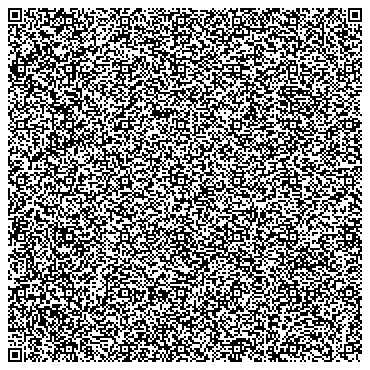
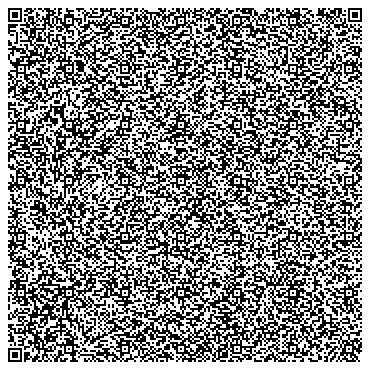
release new bundles

diff --git a/docs/demo-shader-julia/index.html b/docs/demo-shader-julia/index.html
@@ -1,1 +1,1 @@
-<style>canvas{left:0;top:0;position:fixed}div{position:fixed;color:#fff;font-family:monospace;background:rgba(0,0,0,.5)}div#h{padding:16px;font-size:32px}div#m,div#p{font-size:80px;padding:40px}*{touch-action:none}</style><canvas id="c"></canvas><div id="h"></div><div id="p">+</div><div id="m">-</div><script>var o=()=>{requestAnimationFrame(I)},t=(t,e)=>c.getUniformLocation(t,e),e=(t,e,r)=>(r=c.createShader(r),c.shaderSource(r,e),c.compileShader(r),c.attachShader(t,r),r),r=t=>t.toFixed(5),n=t=>{var t=t.touches.item(0),e=a.getBoundingClientRect(),r=t.pageX;return[r,t=t.pageY,f+s*(2*(r-e.left)/e.width-1)*e.width/e.height,h+s*(2*(e.height-t)/e.height-1)]},a=((i=(t,e,r)=>{(t=document.getElementById(t)).style.left=window.innerWidth-e,t.ontouchstart=()=>{s*=r,o()}})("p",136,.9),i("m",272,1.1),document.getElementById("c")),l=document.getElementById("h"),c=a.getContext("webgl"),f=0,h=0,s=2,d=0,m=0,g=0,u=0,v=0,b=0,p=0,w=0,A=0,x=!1,i=c.createBuffer(),y=c.ARRAY_BUFFER;c.bindBuffer(y,i),c.bufferData(y,new Float32Array([-1,-1,1,-1,-1,1,1,1]),c.STATIC_DRAW);e(i=c.createProgram(),"attribute vec2 p;void main(){gl_Position=vec4(p,0,1);}",c.VERTEX_SHADER),e(i,"precision highp float;uniform vec2 cs,cp;uniform float s;uniform vec2 c;uniform float ds;vec2 cm(vec2 a,vec2 b){return vec2(a.x*b.x-a.y*b.y,a.x*b.y+a.y*b.x);} const int MI=254;const float MD=1e8;float f(float n,vec3 hsl){float k=mod(n+hsl.x*12.,12.);float a=hsl.y*min(hsl.z,1.-hsl.z);return hsl.z-a*max(min(k-3.,min(9.-k, 1.)),-1.);}vec3 hsl2rgb(vec3 hsl){return vec3(f(0.,hsl),f(8.,hsl),f(4.,hsl));}vec3 pc(vec2 t,vec2 c){float md=.0;vec2 z=t;float d;for(int i=0;i<MI;i++){z=cm(z,z)+c;d=length(z);if(md<d){md=d;}if(md>MD){float l=sqrt((float(i)-log2(log(d)/log(sqrt(MD)))+1.)/log2(float(MI*MI)));return hsl2rgb(vec3(1.-l/5.,1.-l,.1+l/3.));}}float l=pow(d/md,16.);return hsl2rgb(vec3(.8-l/3.,.5+l/2.,l/4.+.25));}void main(){vec2 t=(gl_FragCoord.xy/cs.xy)*2.-vec2(1.,1.);t.x=t.x*cs.x/cs.y;t=t*s+cp;float D=length(c-t)/s;if (D<ds){D=(D<(ds-.005)?1.:.0);gl_FragColor=vec4(D,D,D,1.);}else{gl_FragColor=vec4(pc(t,c),1.);}}",c.FRAGMENT_SHADER),c.linkProgram(i),c.useProgram(i);var y=c.getAttribLocation(i,"p"),D=t(i,"cs"),M=t(i,"cp"),R=t(i,"s"),E=t(i,"ds"),F=t(i,"c"),I=(c.enableVertexAttribArray(y),c.vertexAttribPointer(y,2,c.FLOAT,!1,0,0),a.ontouchstart=t=>{var e;t.preventDefault(),1==++A&&([v,b,t,e]=n(t),p=f,w=h,Math.abs(t-d)<.1*s&&Math.abs(e-m)<.1*s&&(x=!0)),o()},a.ontouchend=()=>{0==--A&&(x=!1),o()},a.ontouchmove=t=>{var e,r;[t,e,g,u]=n(t),0<A&&(x?(d=g,m=u):(r=2*s/a.height,f=p-(t-v)*r,h=w+(e-b)*r),o())},()=>{var t=a.width=window.innerWidth,e=a.height=window.innerHeight;c.viewport(0,0,t,e),c.uniform2f(D,t,e),c.uniform2f(M,f,h),c.uniform2f(F,d,m),c.uniform1f(E,x?.1:.015),c.uniform1f(R,s),c.drawArrays(c.TRIANGLE_STRIP,0,4),l.innerHTML=["Center: "+r(f)+","+r(h),"Constant: "+r(d)+","+r(m),"Zoom: "+r(s)].join("<br/>")});(window.onresize=o)()</script>
+<style>canvas{left:0;top:0;position:fixed}div{position:fixed;color:#fff;font-family:monospace;background:rgba(0,0,0,0)}div#h{padding:16px;font-size:32px}div#m,div#p{font-size:80px;padding:40px}*{touch-action:none}</style><canvas id="c"></canvas><div id="h"></div><div id="p">&#x2795;</div><div id="m">&#x2796;</div><script>var o=()=>{requestAnimationFrame(I)},e=(e,t)=>l.getUniformLocation(e,t),t=(e,t,r)=>(r=l.createShader(r),l.shaderSource(r,t),l.compileShader(r),l.attachShader(e,r),r),r=e=>e.toFixed(5),n=e=>{var e=e.touches.item(0),t=a.getBoundingClientRect(),r=e.pageX;return[r,e=e.pageY,f+s*(2*(r-t.left)/t.width-1)*t.width/t.height,h+s*(2*(t.height-e)/t.height-1)]},a=((i=(e,t,r)=>{(e=document.getElementById(e)).style.left=window.innerWidth-t,e.ontouchstart=()=>{s*=r,o()}})("p",190,.9),i("m",380,1.1),document.getElementById("c")),c=document.getElementById("h"),l=a.getContext("webgl"),f=0,h=0,s=2,d=0,m=0,g=0,u=0,v=0,p=0,b=0,w=0,A=0,x=!1,i=l.createBuffer(),y=l.ARRAY_BUFFER;l.bindBuffer(y,i),l.bufferData(y,new Float32Array([-1,-1,1,-1,-1,1,1,1]),l.STATIC_DRAW);t(i=l.createProgram(),"attribute vec2 p;void main(){gl_Position=vec4(p,0,1);}",l.VERTEX_SHADER),t(i,"precision highp float;uniform vec2 cs,cp;uniform float s;uniform vec2 c;uniform float ds;vec2 cm(vec2 a,vec2 b){return vec2(a.x*b.x-a.y*b.y,a.x*b.y+a.y*b.x);} const int I=254;float f(float n,vec3 hsl){float k=mod(n+hsl.x*12.,12.);float a=hsl.y*min(hsl.z,1.-hsl.z);return hsl.z-a*max(min(k-3.,min(9.-k, 1.)),-1.);}vec3 C(vec3 hsl){return vec3(f(0.,hsl),f(8.,hsl),f(4.,hsl));}vec3 pc(vec2 t,vec2 c){float O=.0;vec2 z=t;float d;for(int i=0;i<I;i++){z=cm(z,z)+c;d=length(z);O=O<d?d:O;if(O>1e8){float l=sqrt((float(i)-log2(log(d)/log(sqrt(1e8)))+1.)/log2(float(I*I)));return C(vec3(1.-l/5.,1.-l,.1+l/3.));}}float l=pow(d/O,16.);return C(vec3(.8-l/3.,.5+l/2.,l/4.+.25));}void main(){vec2 t=(gl_FragCoord.xy/cs.xy)*2.-vec2(1.,1.);t.x=t.x*cs.x/cs.y;t=t*s+cp;float D=length(c-t)/s;if (D<ds){D=(D<(ds-.005)?1.:.0);gl_FragColor=vec4(D,D,D,1.);}else{gl_FragColor=vec4(pc(t,c),1.);}}",l.FRAGMENT_SHADER),l.linkProgram(i),l.useProgram(i);var y=l.getAttribLocation(i,"p"),D=e(i,"cs"),C=e(i,"cp"),R=e(i,"s"),E=e(i,"ds"),F=e(i,"c"),I=(l.enableVertexAttribArray(y),l.vertexAttribPointer(y,2,l.FLOAT,!1,0,0),a.ontouchstart=e=>{var t;e.preventDefault(),1==++A&&([v,p,e,t]=n(e),b=f,w=h,Math.abs(e-d)<.1*s&&Math.abs(t-m)<.1*s&&(x=!0)),o()},a.ontouchend=()=>{0==--A&&(x=!1),o()},a.ontouchmove=e=>{var t,r;[e,t,g,u]=n(e),0<A&&(x?(d=g,m=u):(r=2*s/a.height,f=b-(e-v)*r,h=w+(t-p)*r),o())},()=>{var e=a.width=window.innerWidth,t=a.height=window.innerHeight;l.viewport(0,0,e,t),l.uniform2f(D,e,t),l.uniform2f(C,f,h),l.uniform2f(F,d,m),l.uniform1f(E,x?.1:.015),l.uniform1f(R,s),l.drawArrays(l.TRIANGLE_STRIP,0,4),c.innerHTML=["Center: "+r(f)+","+r(h),"Constant: "+r(d)+","+r(m),"Zoom: "+r(s)].join("<br/>")});(window.onresize=o)()</script>

diff --git a/docs/README.md b/docs/README.md
@@ -61,5 +61,9 @@ Mandelbrot set shader added for demonstration purposes based on [WebGL101](https
 Demo showcasing interactive fragment shader using WebGL.
 Displays julia set with pan, zoom and ability to move constant point by drag-and-drop.
 
+Worst thing about shaders - they cannot be minified automatically.
+This forces manual "minification" which results in VERY unreadable code.
+Loading external shader file is rather difficult to implement within Data URL.
+
 ![demo-shader-julia](demo-shader-julia/qr.png)
 
